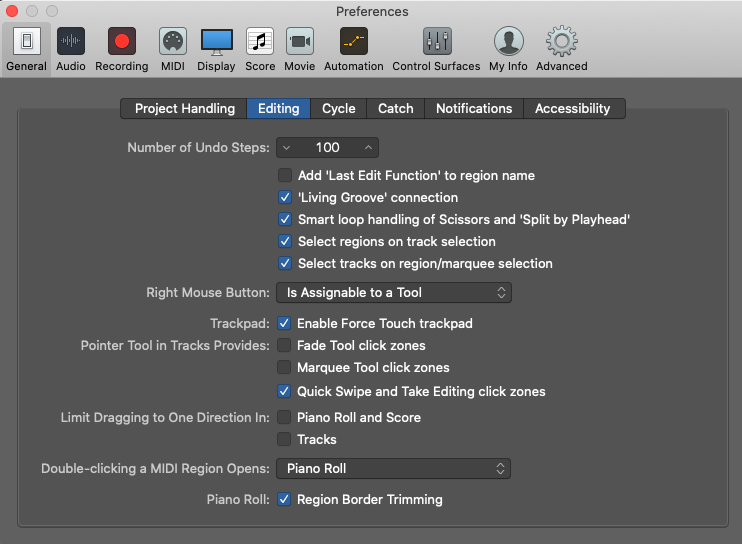
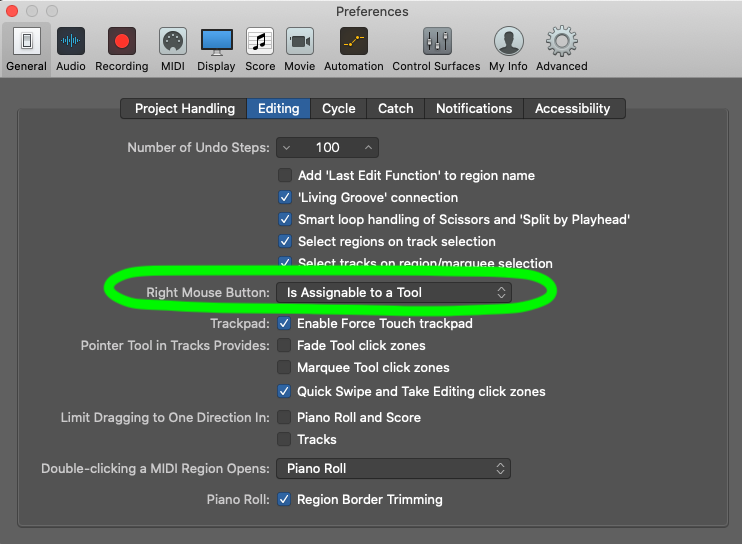
rework

Changed region(s): [[0.124, 0.4688, 0.7749, 0.5938]]

diff --git a/right_click_action.md b/right_click_action.md
@@ -1,15 +1,20 @@
-The default
+## How to enable right click action in Logic Pro
+
+In the default configuration there is no action menu for the right click action:
 
 ![advanced editing](images/no_right_click_action.png "advanced editing")
 
-Open Preferences -> Advanced
+Open Preferences and go to the tab "Advanced"
+Select Advanced Editing
 
 ![advanced editing](images/advanced_editing.png "advanced editing")
 
-Select Advanced Editing
+Got ot "General" and open the tab "Editing"
+
+At the "Right Mouse Button" drop-down select "Is assignable to a tool"
 
 ![advanced editing](images/general_editing.png "advanced editing")
 
-Prefrences General -> Editing ->  Right Mouse button -> Is assignable to a tool
+Voila! Now you have a third tool option:
 
 ![advanced editing](images/right_click_action.png "advanced editing")
